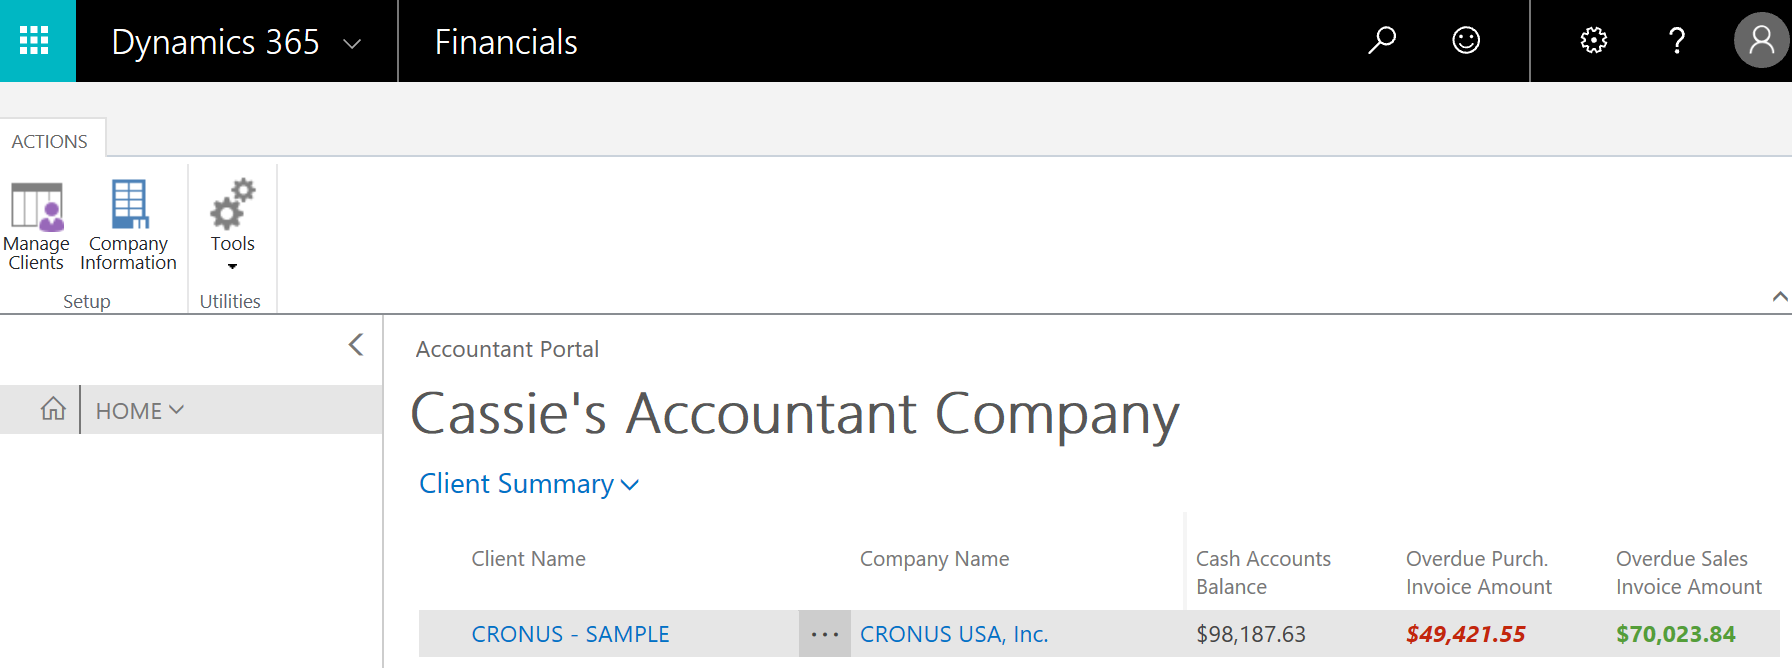
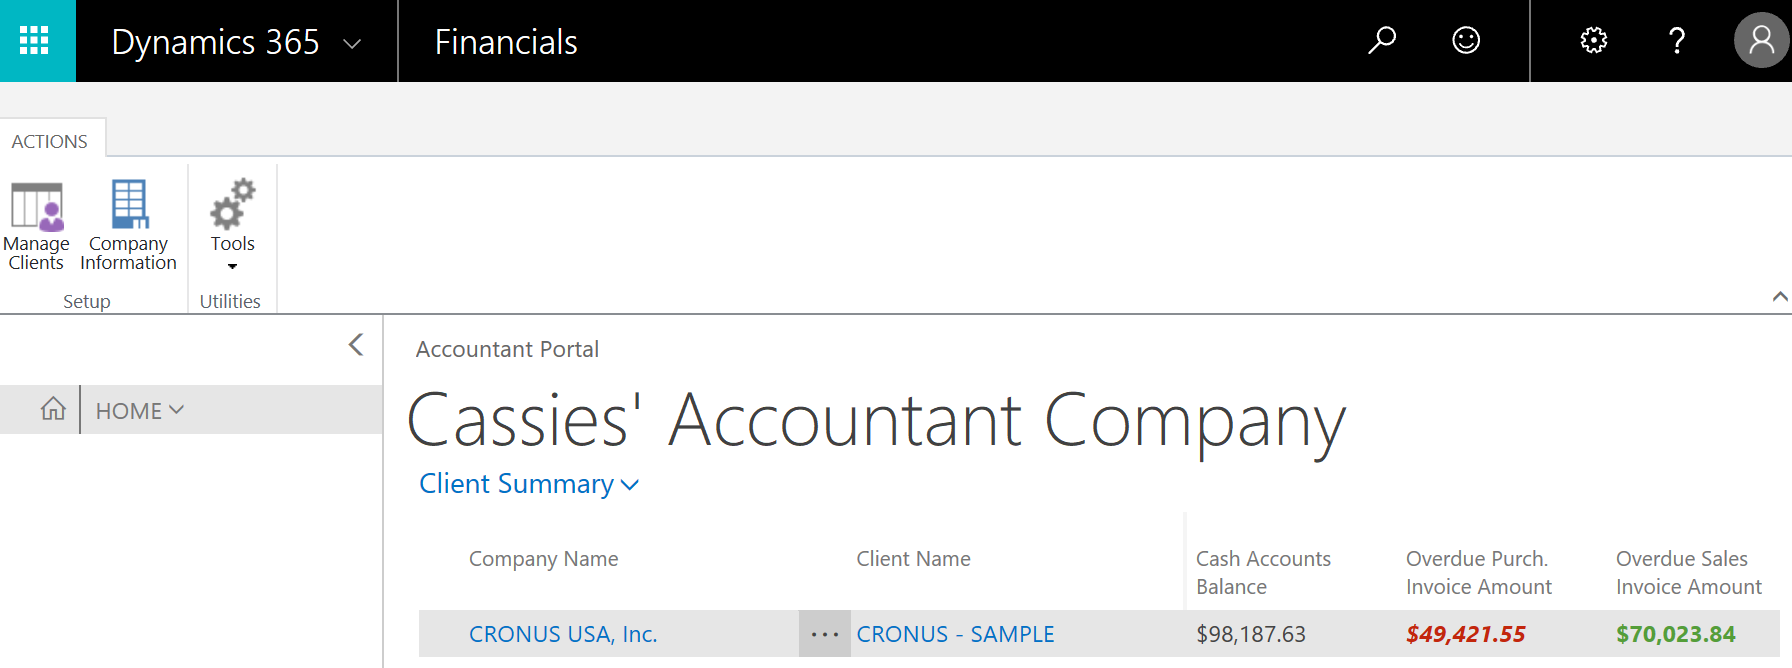
AcctPortal client details update 8

diff --git a/financials/finance-accounting.md b/financials/finance-accounting.md
@@ -9,7 +9,7 @@ ms.devlang: na
 ms.tgt_pltfrm: na
 ms.workload: na
 ms.search.keywords: accountant, accounting, financial report
-ms.date: 07/03/2017
+ms.date: 07/10/2017
 ms.author: edupont
 
 ---
@@ -37,7 +37,7 @@ You can then access their financial data from the **Accountant** Role Center. If
 ## Accountant Portal
 If you are an accountant with several clients, you can use the accountant portal as your dashboard for a better overview of your clients. From there, you can access each client's tenant in [!INCLUDE[d365fin](includes/d365fin_md.md)] and use the Accountant Role Center as described above.  
 
-The accountant portal is a dedicated version of [!INCLUDE[d365fin](includes/d365fin_md.md)]. You can get access to the portal by signing up from [Financials for Accountants on Microsoft.com](https://www.microsoft.com/en-us/dynamics365/financial-insights-for-accountants), and by adding the [Accountant Portal extension](ui-extensions-accountant-portal.md) to your [!INCLUDE[d365fin](includes/d365fin_md.md)].  
+The accountant portal is a dedicated version of [!INCLUDE[d365fin](includes/d365fin_md.md)]. You can get access to the portal by signing up from [Financials for Accountants on Microsoft.com](https://www.microsoft.com/en-us/dynamics365/financial-insights-for-accountants), or by adding the [Accountant Portal extension](ui-extensions-accountant-portal.md) to your [!INCLUDE[d365fin](includes/d365fin_md.md)].  
 
 > [!TIP]  
 >  When you sign up for the accountant portal, you must specify your work email address, such as *me@accountant.com*. We recommend that you use the same email address when you work in your clients' [!INCLUDE[d365fin](includes/d365fin_md.md)], so that you can easily switch between clients.  
@@ -48,7 +48,7 @@ When you first log in to the accountant portal, the dashboard shows a sample cli
 The dashboard shows the most important information about each client.  
 [![Accountant Portal](./media/ui-extensions-accportal/accountant-portal.png)](https://go.microsoft.com/fwlink/?linkid=851257)
 
-The **Company Name** column lists all companies that your clients have given you access to, and the **Client Name** column shows the names of your clients. You can customize the dashboard to show the data points that you want to see by adding or removing columns. For example, you might want to see taxes that are due, how many open sales documents each client has, or the number of purchase invoices that are due next week. You can configure the view to suit your needs. If you have many clients, you can use filters to sort your view.  
+The **Company Name** column lists all companies or business units that your clients have given you access to, and the **Client Name** column shows the names of your clients. You can customize the dashboard to show the data points that you want to see by adding or removing columns. For example, you might want to see taxes that are due, how many open sales documents each client has, or the number of purchase invoices that are due next week. You can configure the view to suit your needs. If you have many clients, you can use filters to sort your view.  
 
 Next to the client name the three ellipses reveal a short menu:
 
@@ -58,10 +58,22 @@ Next to the client name the three ellipses reveal a short menu:
 
 Similarly, you can use the **Client Summary** drop-down menu to refresh all companies, for example.  
 
-All other work that you do for each client, you can do in the Accountant Role Center in their [!INCLUDE[d365fin](includes/d365fin_md.md)].  
+#### Company Details
+You can see more information about your clients' data by choosing the name of the company that you want to learn more about. This opens the **Company Details** window in a new browser tab.  
 
-> [!TIP]  
->  To access a client's [!INCLUDE[d365fin](includes/d365fin_md.md)], choose the **Go To Company** menu item - you are logged in automatically.
+In the **Company Details** window, you can see KPIs for the company, such as the following:
+
+-   Cash account balances  
+-   Cash flow forecast  
+-   Overdue purchase invoices  
+-   Overdue sales invoices  
+
+Technically, you have now logged into your client's [!INCLUDE[d365fin](includes/d365fin_md.md)], so you can use the Home menu in the left navigation pane to access other areas in your client's company. If you change the Role Center to the Accountant Role Center, you can pick up your usual work that you do for each client. For more information, see [How to: Change the Role Center](change-role.md).  
+
+Otherwise, go back to your accountant portal and continue to the next client. You can close the current browser tab with your client's [!INCLUDE[d365fin](includes/d365fin_md.md)] or leave it open while you continue work in the accountant portal.  
+
+> [!NOTE]  
+>  If you do not intend to return to this client in a few minutes, we recommend that you close the browser tab. If you want to access the same client again, simply choose the **Go To Client** menu item - you are logged in automatically.  
 
 ### Adding Clients
 You can add a client by using the **Clients** window, which you can open by choosing the **Manage Clients** action in the ribbon. Simply choose **New** and then fill in the fields.  
@@ -78,3 +90,4 @@ The data in the card for each client is specified by you, and you can change it 
 [Working with [!INCLUDE[d365fin](includes/d365fin_md.md)]](ui-work-product.md)  
 [Invite Your External Accountant to Your [!INCLUDE[d365fin](includes/d365fin_md.md)]](finance-invite-external-accountant.md)  
 [Financials for Accountants on Microsoft.com](https://www.microsoft.com/en-us/dynamics365/financial-insights-for-accountants)  
+[Setting Up Cash Flow Analysis](finance-setup-cash-flow-analysis.md)  
